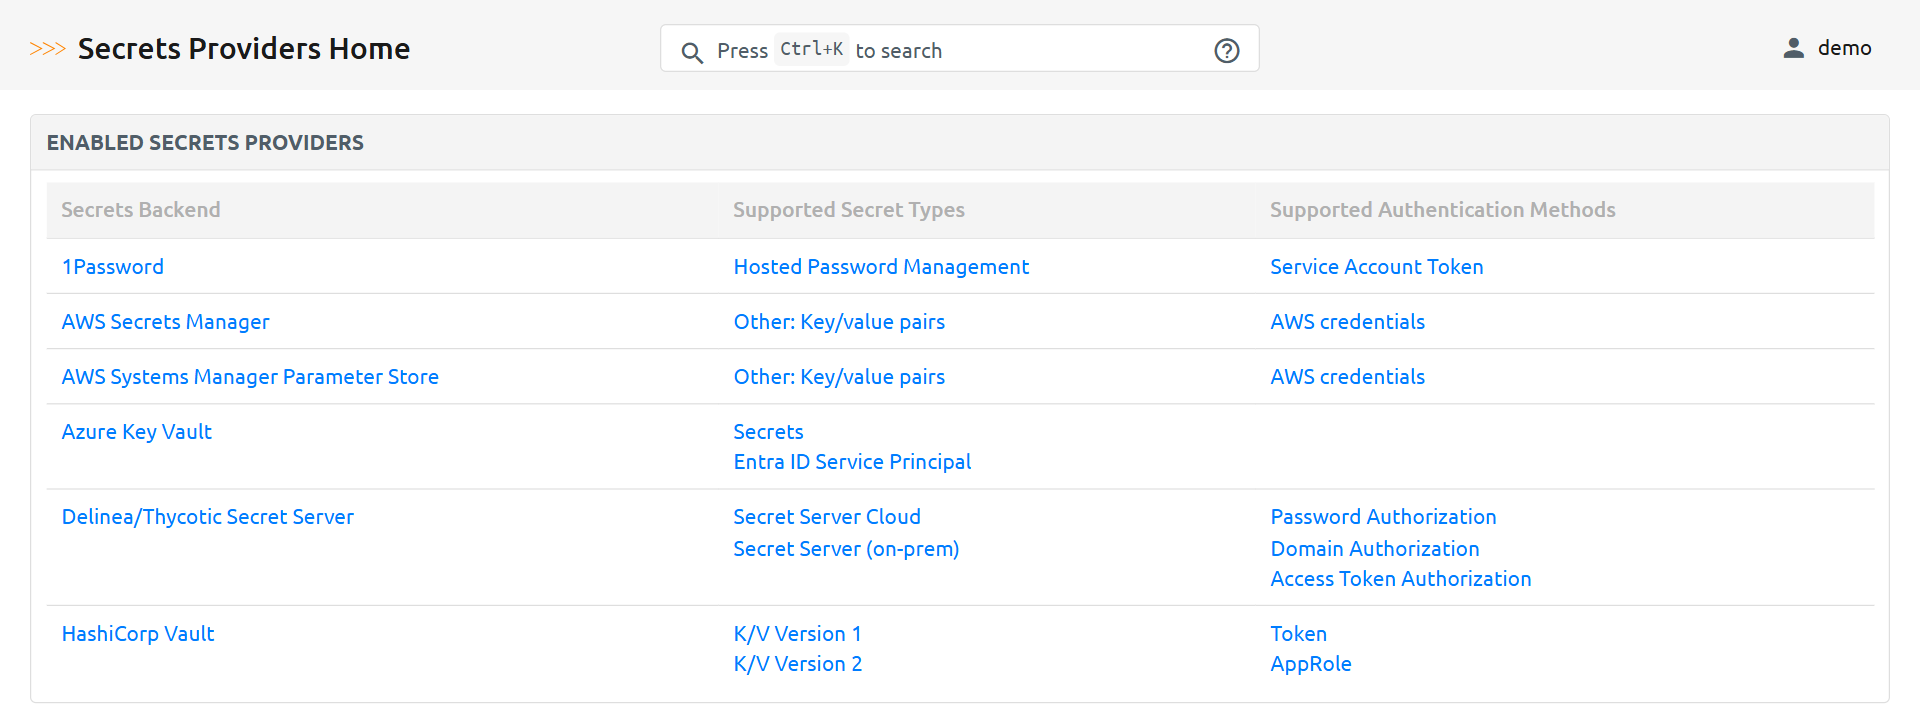
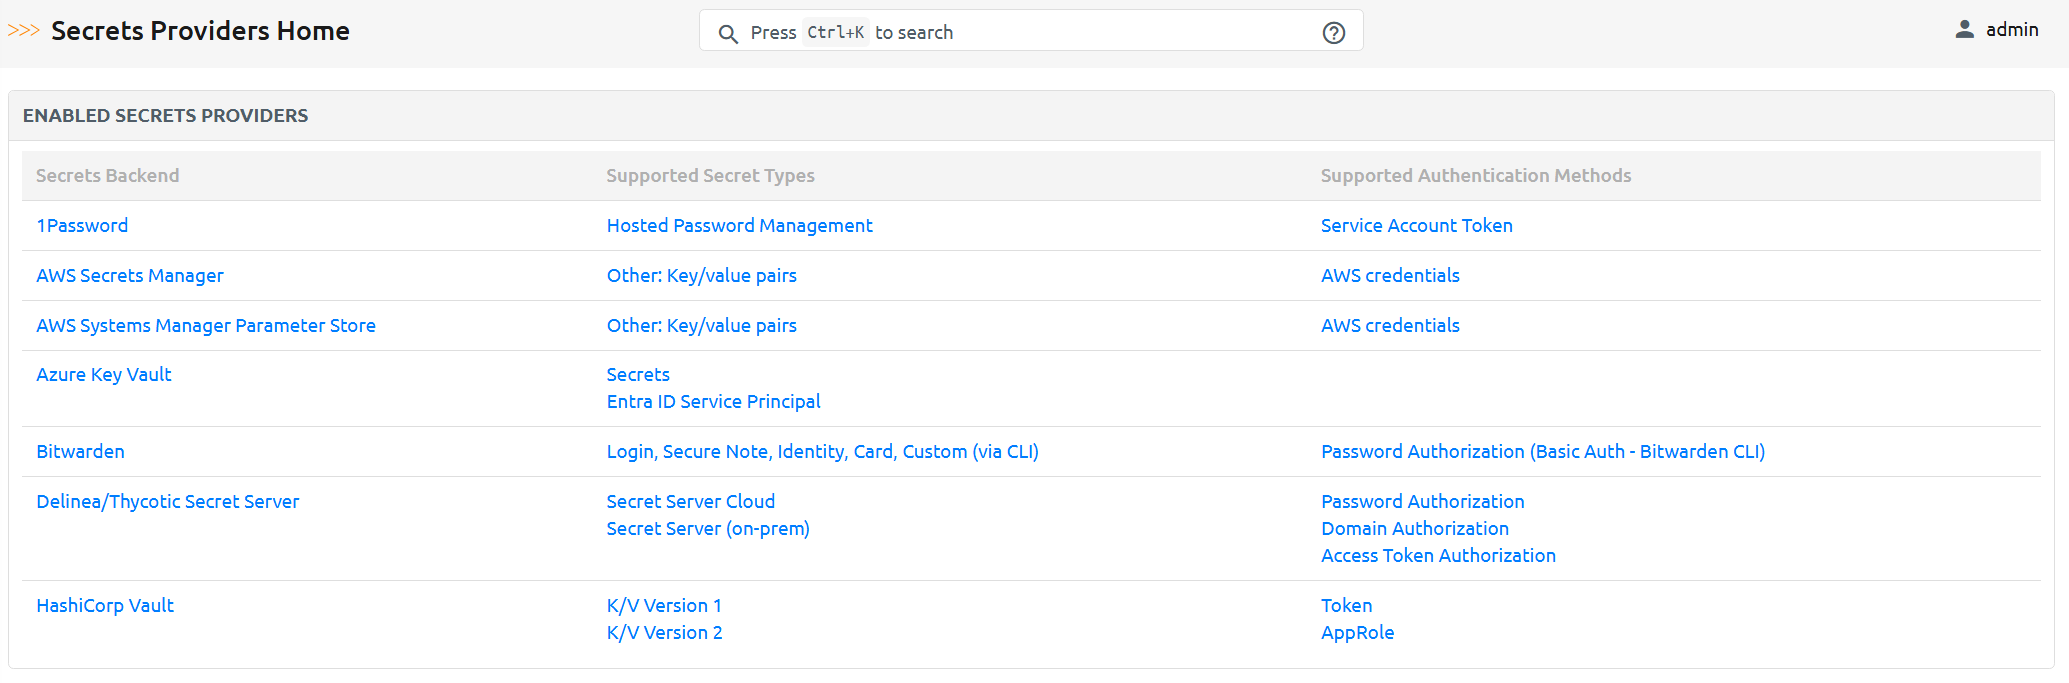
feature/221-add-bitwarden-provider

diff --git a/nautobot_secrets_providers/templates/nautobot_secrets_providers/home.html b/nautobot_secrets_providers/templates/nautobot_secrets_providers/home.html
@@ -63,6 +63,17 @@
                     </tr>
                     <tr>
                         <td>
+                            <a href="https://bitwarden.com/" rel="nofollow">Bitwarden</a>
+                        </td>
+                        <td>
+                            <a href="https://bitwarden.com/help/managing-items/" rel="nofollow">Login, Secure Note, Identity, Card, Custom (via CLI)</a>
+                        </td>
+                        <td>
+                            <a href="https://bitwarden.com/help/cli/#log-in" rel="nofollow">Password Authorization (Basic Auth - Bitwarden CLI)</a>
+                        </td>
+                    </tr>
+                    <tr>
+                        <td>
                             <a href="https://delinea.com/" rel="nofollow">Delinea/Thycotic Secret Server</a>
                         </td>
                         <td>

diff --git a/docs/user/app_use_cases.md b/docs/user/app_use_cases.md
@@ -23,8 +23,23 @@ This document describes common use-cases and scenarios for this App.
 
 ---
 
-![Screenshot of secret using HashiCorp Vault](../images/light/hashicorp-vault-secrets-provider-add.png#only-light "Secret using HashiCorp Vault"){ .on-glb }
-![Screenshot of secret using HashiCorp Vault](../images/dark/hashicorp-vault-secrets-provider-add.png#only-dark "Secret using HashiCorp Vault"){ .on-glb }
+![Screenshot of secret using 1Password](../images/light/1password-vault-secrets-provider-add.png#only-light "Secret using 1Password"){ .on-glb }
+![Screenshot of secret using 1Password](../images/dark/1password-vault-secrets-provider-add.png#only-dark "Secret using 1Password"){ .on-glb }
+
+---
+
+![Screenshot of secret using Azure Key Vault](../images/light/azure-key-vault-secrets-provider-add.png#only-light "Secret using Azure Key Vault"){ .on-glb }
+![Screenshot of secret using Azure Key Vault](../images/dark/azure-key-vault-secrets-provider-add.png#only-dark "Secret using Azure Key Vault"){ .on-glb }
+
+---
+
+![Screenshot of secret using Bitwarden](../images/light/bitwarden-cli-secrets-provider-add.png#only-light "Secret using Bitwarden"){ .on-glb }
+![Screenshot of secret using Bitwarden](../images/dark/bitwarden-cli-secrets-provider-add.png#only-dark "Secret using Bitwarden"){ .on-glb }
+
+---
+
+![Screenshot of Secret using Bitwarden with Custom Field](../images/light/bitwarden-cli-secrets-provider-custom-field-names.png)
+![Screenshot of Secret using Bitwarden with Custom Field](../images/dark/bitwarden-cli-secrets-provider-custom-field-names.png)
 
 ---
 
@@ -38,10 +53,5 @@ This document describes common use-cases and scenarios for this App.
 
 ---
 
-![Screenshot of secret using Azure Key Vault](../images/light/azure-key-vault-secrets-provider-add.png#only-light "Secret using Azure Key Vault"){ .on-glb }
-![Screenshot of secret using Azure Key Vault](../images/dark/azure-key-vault-secrets-provider-add.png#only-dark "Secret using Azure Key Vault"){ .on-glb }
-
----
-
-![Screenshot of secret using 1Password](../images/light/1password-vault-secrets-provider-add.png#only-light "Secret using 1Password"){ .on-glb }
-![Screenshot of secret using 1Password](../images/dark/1password-vault-secrets-provider-add.png#only-dark "Secret using 1Password"){ .on-glb }
+![Screenshot of secret using HashiCorp Vault](../images/light/hashicorp-vault-secrets-provider-add.png#only-light "Secret using HashiCorp Vault"){ .on-glb }
+![Screenshot of secret using HashiCorp Vault](../images/dark/hashicorp-vault-secrets-provider-add.png#only-dark "Secret using HashiCorp Vault"){ .on-glb }
